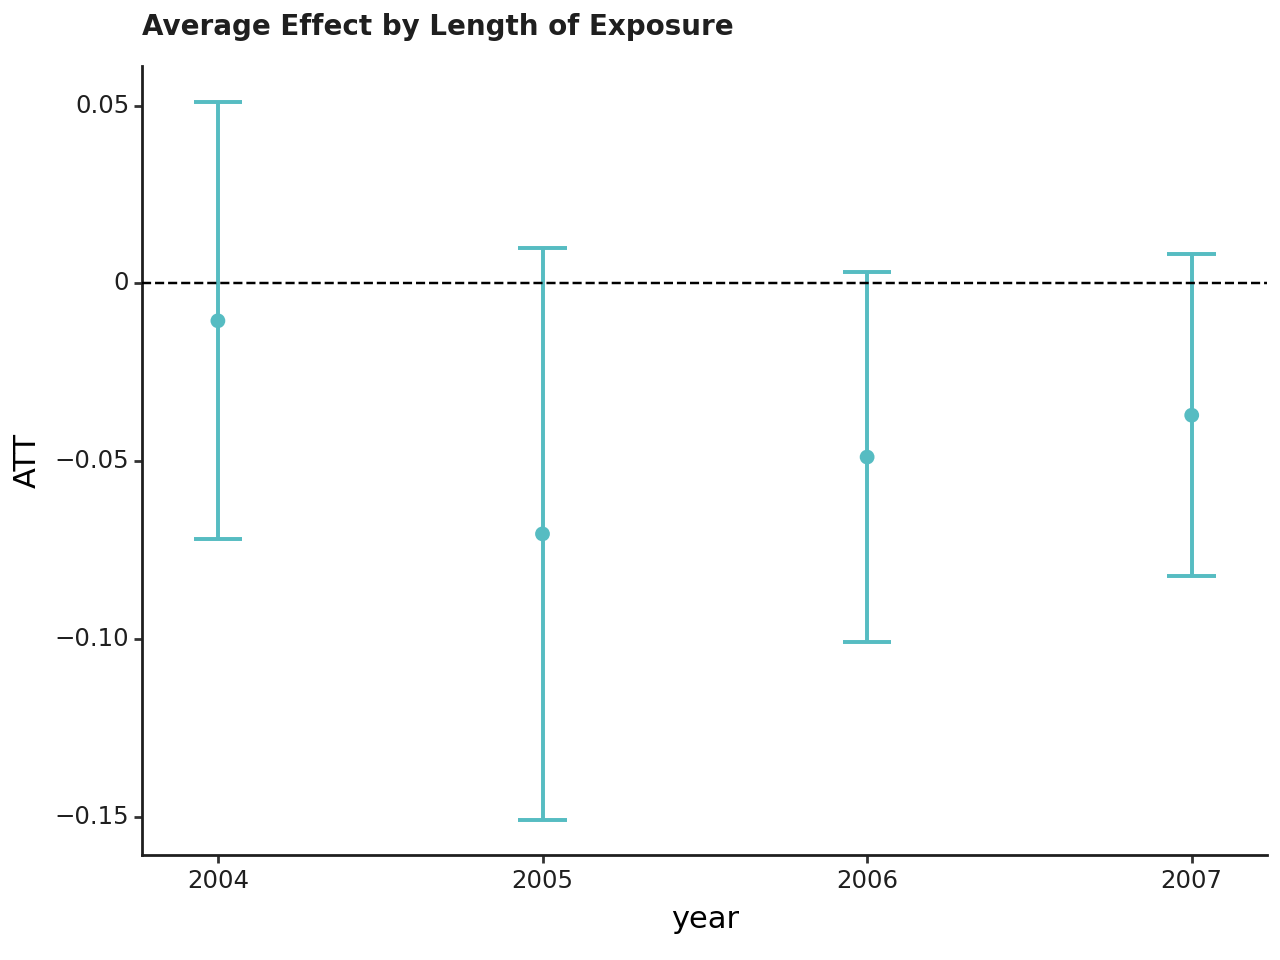
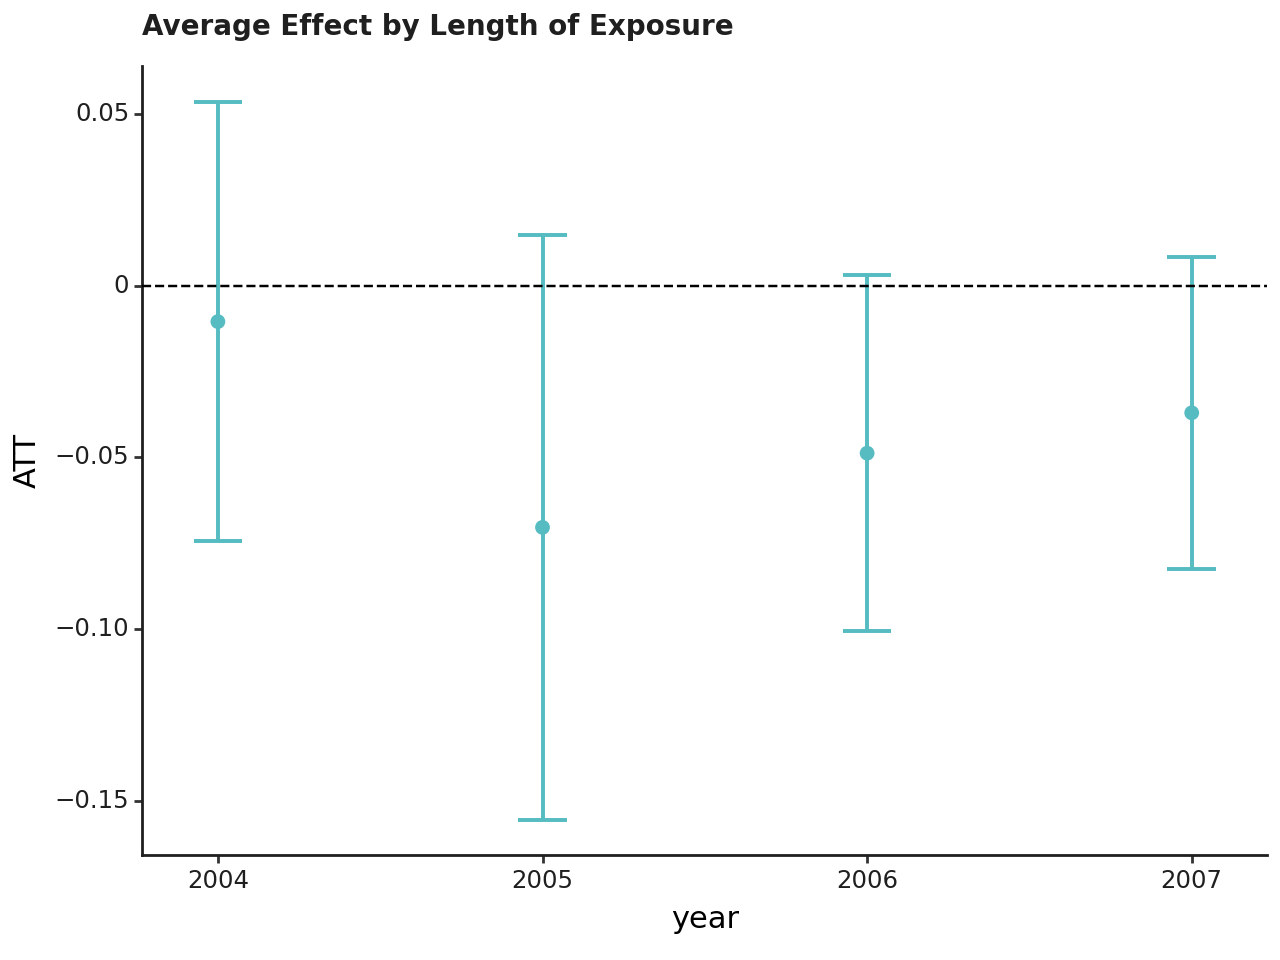
ymal

diff --git a/setup.py b/setup.py
@@ -21,7 +21,14 @@ setup(
         "License :: OSI Approved :: Apache Software License",
         "Topic :: Scientific/Engineering",
     ],
-  # install_requires=requi,
+  install_requires=[
+        'pandas',
+        'numpy<=1.24.3',
+        'scipy',
+        'patsy',
+        'plotnine',
+        'twine'
+  ],
   packages=find_packages(),
   package_data={
     'data': ['data/*'],

diff --git a/csdid/_version.py b/csdid/_version.py
@@ -1,1 +1,1 @@
-__version = '0.2.0'
+__version = '0.1.82'

diff --git a/readme.md b/readme.md
@@ -126,30 +126,28 @@ out.summ_attgt().summary2
 
 |     | Group | Time | ATT(g, t) | Post | Std. Error | \[95% Pointwise | Conf. Band\] |     |
 |-----|-------|------|-----------|------|------------|-----------------|--------------|-----|
-| 0   | 2004  | 2004 | -0.0105   | 1    | 0.0307     | -0.0917         | 0.0707       |     |
-| 1   | 2004  | 2005 | -0.0704   | 1    | 0.0429     | -0.1841         | 0.0433       |     |
-| 2   | 2004  | 2006 | -0.1373   | 1    | 0.0491     | -0.2673         | -0.0072      | \*  |
-| 3   | 2004  | 2007 | -0.1008   | 1    | 0.0461     | -0.2229         | 0.0213       |     |
-| 4   | 2006  | 2004 | 0.0065    | 0    | 0.0324     | -0.0792         | 0.0923       |     |
-| 5   | 2006  | 2005 | -0.0028   | 0    | 0.0271     | -0.0746         | 0.0691       |     |
-| 6   | 2006  | 2006 | -0.0046   | 1    | 0.0243     | -0.0690         | 0.0598       |     |
-| 7   | 2006  | 2007 | -0.0412   | 1    | 0.0299     | -0.1203         | 0.0379       |     |
-| 8   | 2007  | 2004 | 0.0305    | 0    | 0.0270     | -0.0410         | 0.1021       |     |
-| 9   | 2007  | 2005 | -0.0027   | 0    | 0.0285     | -0.0783         | 0.0728       |     |
-| 10  | 2007  | 2006 | -0.0311   | 0    | 0.0315     | -0.1145         | 0.0523       |     |
-| 11  | 2007  | 2007 | -0.0261   | 1    | 0.0288     | -0.1023         | 0.0502       |     |
+| 0   | 2004  | 2004 | -0.0105   | 1    | 0.0319     | -0.0966         | 0.0756       |     |
+| 1   | 2004  | 2005 | -0.0704   | 1    | 0.0434     | -0.1877         | 0.0469       |     |
+| 2   | 2004  | 2006 | -0.1373   | 1    | 0.0519     | -0.2775         | 0.0030       |     |
+| 3   | 2004  | 2007 | -0.1008   | 1    | 0.0432     | -0.2175         | 0.0159       |     |
+| 4   | 2006  | 2004 | 0.0065    | 0    | 0.0329     | -0.0823         | 0.0953       |     |
+| 5   | 2006  | 2005 | -0.0028   | 0    | 0.0293     | -0.0818         | 0.0763       |     |
+| 6   | 2006  | 2006 | -0.0046   | 1    | 0.0244     | -0.0706         | 0.0614       |     |
+| 7   | 2006  | 2007 | -0.0412   | 1    | 0.0294     | -0.1207         | 0.0383       |     |
+| 8   | 2007  | 2004 | 0.0305    | 0    | 0.0267     | -0.0417         | 0.1027       |     |
+| 9   | 2007  | 2005 | -0.0027   | 0    | 0.0293     | -0.0819         | 0.0764       |     |
+| 10  | 2007  | 2006 | -0.0311   | 0    | 0.0317     | -0.1167         | 0.0545       |     |
+| 11  | 2007  | 2007 | -0.0261   | 1    | 0.0294     | -0.1055         | 0.0534       |     |
 
 </div>
 
 plots
 
 ``` python
-out.plot_attgt(ylim=(-.25, .1))
+out.plot_attgt()
 ```
 
-    C:\Users\Jhon\AppData\Local\Programs\Python\Python38\lib\site-packages\plotnine\layer.py:364: PlotnineWarning: geom_errorbar : Removed 2 rows containing missing values.
-
-![](README_files/figure-commonmark/cell-5-output-2.png)
+![](README_files/figure-commonmark/cell-5-output-1.png)
 
     <Figure Size: (640 x 480)>
 
@@ -161,22 +159,22 @@ out.aggte(typec='calendar')
 
     Overall summary of ATT's based on calendar time aggregation:
         ATT Std. Error  [95.0%  Conf. Int.] 
-    -0.0417      0.022 -0.0849       0.0015 
+    -0.0417     0.0231 -0.0869       0.0035 
 
 
     Time Effects (calendar):
        Time  Estimate  Std. Error  [95.0% Simult.   Conf. Band  
-    0  2004   -0.0105      0.0313          -0.0719      0.0509  
-    1  2005   -0.0704      0.0410          -0.1507      0.0099  
-    2  2006   -0.0488      0.0266          -0.1009      0.0033  
-    3  2007   -0.0371      0.0231          -0.0824      0.0083  
+    0  2004   -0.0105      0.0326          -0.0744      0.0534  
+    1  2005   -0.0704      0.0434          -0.1555      0.0147  
+    2  2006   -0.0488      0.0264          -0.1007      0.0030  
+    3  2007   -0.0371      0.0232          -0.0825      0.0084  
     ---
     Signif. codes: `*' confidence band does not cover 0
     Control Group:  Never Treated , 
     Anticipation Periods:  0
     Estimation Method:  Doubly Robust
 
-    <csdid.att_gt.ATTgt at 0x27d39c122e0>
+    <csdid.att_gt.ATTgt at 0x207f216d2e0>
 
 ``` python
 out.plot_aggte()
